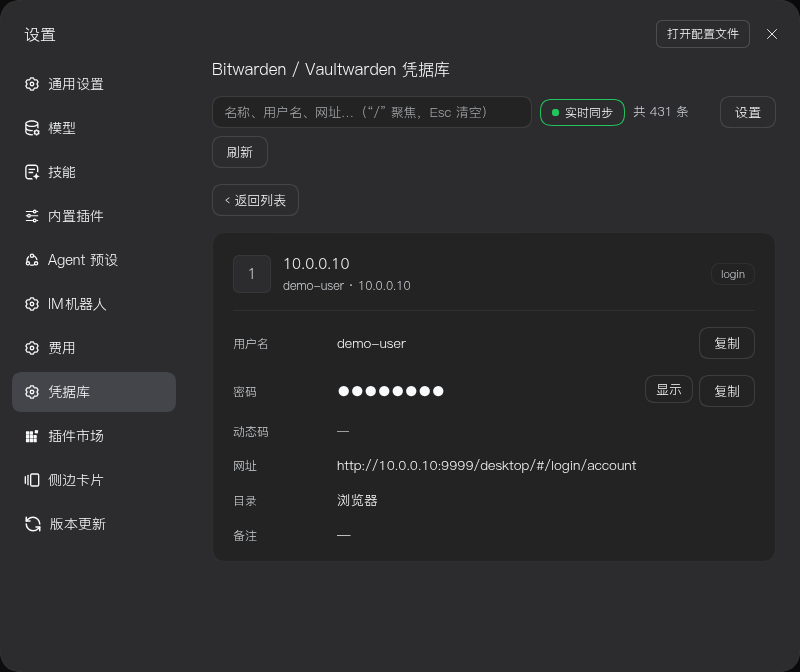
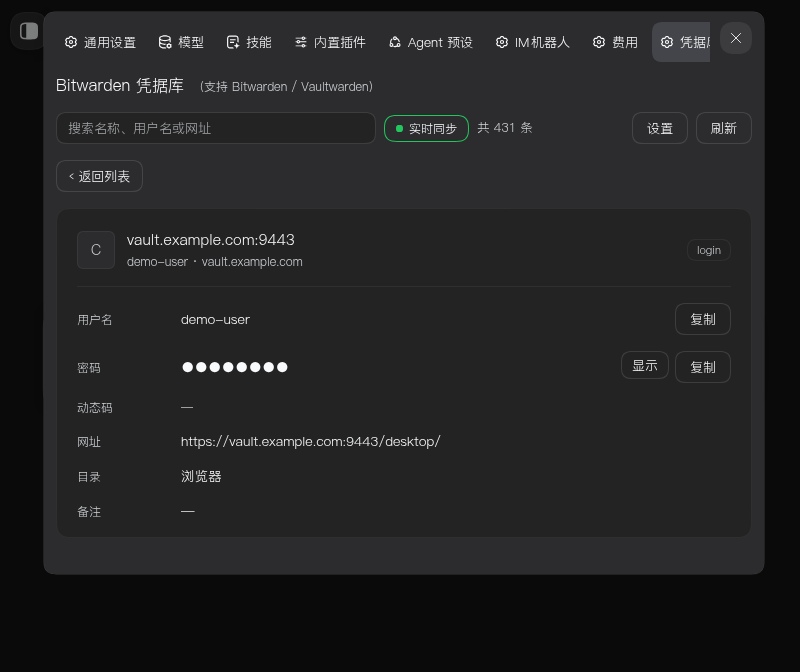
feat(ui): 标题精简、搜索提示瘦身、手机端重排；修列表圆枕同字母问题
按反馈调整面板文案与手机端排版（无破坏性变更）：

- 标题改为「Bitwarden 凭据库」，Vaultwarden 支持改为旁边小字「（支持 Bitwarden / Vaultwarden）」，
  不再用整个标题承载两个产品名；英文词典同步。
- 搜索框占位符只说明搜什么（「搜索名称、用户名或网址」）。原先把 / 聚焦、Esc 清空、↑↓ 移动
  一起塞进占位符，手机上文字还没显示完就被截断；快捷键移到输入框 tooltip，位置更省、仍可达。
- 窄屏（≤560px）：搜索框独占一行；字段行标签另起一行、值占满宽度（长 URL 与备注不再挤成一条）；
  详情内边距与行高收紧。用作用域内媒体查询 + 元素标记实现，不动颜色与大尺寸。
- 列表圆枕原先对 IP 命名条目全部显示同一个「1」。改为按「名称 → 用户名 → URI 主机」取第一个
  字母，纯数字名也能区分开。
- 文档（CHANGELOG / docs/ui-design.md）同步；仓库截图按新 UI 重做并完成 DOM 脱敏。
- 测试 221 项全绿；新增标题/提示/窄屏钩子/圆枕 4 组断言，条目数断言改为派生值。

diff --git a/lib/client.js b/lib/client.js
@@ -58,10 +58,16 @@ window.__ModuleLoader__.load({
 
     // ── dictionaries (zh first; en mirrors the same keys) ─────────────────────
     const DICT_ZH = {
-      panelTitle: 'Bitwarden / Vaultwarden 凭据库',
+      panelTitle: 'Bitwarden 凭据库',
+      // Sits next to the title in small type: the panel is built on the
+      // Bitwarden protocol, and a Vaultwarden server speaks the same one.
+      panelTitleNote: '（支持 Bitwarden / Vaultwarden）',
       panelNav: '凭据库',
       search: '搜索条目',
-      searchPlaceholder: '名称、用户名、网址…（“/” 聚焦，Esc 清空）',
+      // Short on purpose: the long version was truncated mid-word on a phone.
+      searchPlaceholder: '搜索名称、用户名或网址',
+      // The keyboard shortcuts moved out of the placeholder into the tooltip.
+      searchHint: '按 / 聚焦搜索框，Esc 清空，↑↓ 移动选中',
       refresh: '刷新',
       listEmpty: '没有匹配的条目',
       listHint: '换个关键词，或确认条目存在于该账户',
@@ -160,10 +166,12 @@ window.__ModuleLoader__.load({
       timeDays: '{n} 天前',
     }
     const DICT_EN = {
-      panelTitle: 'Bitwarden / Vaultwarden vault',
-      panelNav: 'Vault',
+      panelTitle: 'Bitwarden credentials',
+      panelTitleNote: '(Vaultwarden supported)',
+      panelNav: 'Credentials',
       search: 'Search entries',
-      searchPlaceholder: 'Name, username, URL… (“/” focuses, Esc clears)',
+      searchPlaceholder: 'Name, username or URL',
+      searchHint: 'Press / to focus, Esc to clear, ↑↓ to move the selection',
       refresh: 'Refresh',
       listEmpty: 'No matching entries',
       listHint: 'Try another keyword, or confirm the entry exists in this account',
@@ -316,6 +324,12 @@ window.__ModuleLoader__.load({
         marginRight: -4,
       },
       toolbar: { display: 'flex', gap: 8, alignItems: 'center', flexWrap: 'wrap' },
+      /** Title + the small compatibility note; wraps together on a phone. */
+      titleRow: { display: 'flex', alignItems: 'baseline', gap: 8, flexWrap: 'wrap' },
+      titleText: { fontSize: 16, fontWeight: 600, letterSpacing: 0.1 },
+      titleNote: { fontSize: 12, color: TOKEN.text2 },
+      /** Keeps 设置/刷新 together and right-aligned when the row wraps. */
+      toolbarActions: { display: 'flex', gap: 8, marginLeft: 'auto', flexShrink: 0 },
       // Single column on purpose: the list and the detail are separate levels,
       // never side by side. A two-column grid floors its `1fr` track at
       // min-content, so one long URL used to push the detail card out of the
@@ -466,18 +480,52 @@ window.__ModuleLoader__.load({
 .vw-root [data-row] + [data-row] { border-top: 1px solid ${TOKEN.border} }
 .vw-root ::placeholder { color: ${TOKEN.text2}; opacity: .75 }
 .vw-root { scrollbar-width: thin }
+/* ── narrow screens (phones) ──────────────────────────────────────────
+   Inline styles cannot be reached by a media query, so the declarations
+   below override them with !important. They only re-flow what is already
+   there: no colour, no size, nothing that would differ between themes. */
+@media (max-width: 560px) {
+  /* The search box owns its row instead of competing with the controls. */
+  .vw-root [data-vw-search] { max-width: none !important; flex: 1 1 100% }
+  /* Field rows stack: a fixed 92px label column left too little room for
+     long URLs and notes on a phone. The label gets its own line and the
+     value keeps the full width, with its copy button beside it. */
+  .vw-root [data-vw-field] { grid-template-columns: minmax(0, 1fr) auto !important; gap: 4px 8px !important }
+  .vw-root [data-vw-field] > *:first-child { grid-column: 1 / -1 }
+  /* Reclaim vertical space: the host dialog is short on a phone. */
+  .vw-root { gap: 12px !important }
+  .vw-root [data-vw-detail] { padding: 16px !important }
+  .vw-root [data-row] { padding: 10px 12px !important; gap: 10px !important }
+}
 `
       document.head.appendChild(style)
     }
 
-    /** First glyph of an entry name, for the list's monogram tile. */
+    /**
+     * First glyph of an entry name, for the list's monogram tile.
+     *
+     * A leading digit identifies nothing: entries named after an IP address or
+     * a port ("10.0.0.10", "…:9443") tiled the whole list with the same
+     * "1". So prefer the first letter or CJK character, fall back to the
+     * username for the same reason, and only then use a bare digit.
+     */
     const monogram = (item) => {
-      const source = String(item?.name ?? '').trim()
-      if (!source) return '?'
-      // Prefer a leading letter or digit; fall back to the first character so
-      // CJK names still show something meaningful.
-      const match = source.match(/[A-Za-z0-9\u4e00-\u9fff]/)
-      return (match?.[0] ?? source[0]).toUpperCase()
+      const letterIn = (text) => String(text ?? '').trim().match(/[A-Za-z\u4e00-\u9fff]/)?.[0] ?? ''
+      // A digit carries no identity here, so every source is checked for a
+      // letter before any digit is considered — including the URI host, which
+      // is the only name-like field left when both name and username are
+      // numeric (an entry named "10.0.0.10" with username "demo-user" should
+      // read as D, not as a fifth identical "1").
+      const candidates = [item?.name, item?.username, ...(item?.uris ?? []).map((uri) => hostOf(uri))]
+      for (const candidate of candidates) {
+        const letter = letterIn(candidate)
+        if (letter) return letter.toUpperCase()
+      }
+      for (const candidate of candidates) {
+        const digit = String(candidate ?? '').trim().match(/[0-9]/)?.[0]
+        if (digit) return digit
+      }
+      return '?'
     }
 
     /** Show just the host of a URI: full URLs make list rows unreadable. */
@@ -1201,10 +1249,14 @@ window.__ModuleLoader__.load({
         { style: S.toolbar },
         h('input', {
           ref: searchRef,
+          'data-vw-search': '',
           style: { ...S.input, maxWidth: 320, width: '100%' },
           type: 'search',
           value: query,
           placeholder: t('searchPlaceholder'),
+          // The shortcuts used to sit in the placeholder and were the first
+          // thing truncated on a phone; a tooltip keeps them reachable.
+          title: t('searchHint'),
           'aria-label': t('search'),
           onChange: (event) => setQuery(event.target.value),
           onKeyDown: (event) => {
@@ -1221,8 +1273,12 @@ window.__ModuleLoader__.load({
         }),
         state.status === 'ready' ? h(SyncChip, { report: state.report, t, invoke, onSynced: () => readVault(query) }) : null,
         h('span', { style: S.note }, state.status === 'ready' ? t('itemsCount').replace('{n}', String(state.list.vaultItems ?? items.length)) : ''),
-        h('button', { type: 'button', style: { ...S.button, marginLeft: 'auto' }, onClick: () => setShowSetup(true) }, t('openSetup')),
-        h('button', { type: 'button', style: S.button, onClick: () => load(query) }, t('refresh')),
+        h(
+          'div',
+          { style: S.toolbarActions },
+          h('button', { type: 'button', style: S.button, onClick: () => setShowSetup(true) }, t('openSetup')),
+          h('button', { type: 'button', style: S.button, onClick: () => load(query) }, t('refresh')),
+        ),
       )
 
       const list = h(
@@ -1294,14 +1350,14 @@ window.__ModuleLoader__.load({
         const row = (label, content, copyValue) =>
           h(
             'div',
-            { style: S.fieldRow, key: label },
+            { 'data-vw-field': '', style: S.fieldRow, key: label },
             h('span', { style: S.fieldLabel }, label),
             h('span', { style: S.fieldValue }, content ?? '—'),
             copyValue ? h(CopyButton, { value: copyValue, t }) : null,
           )
         return h(
           'div',
-          { style: S.detail },
+          { 'data-vw-detail': '', style: S.detail },
           h(
             'div',
             { style: { display: 'flex', alignItems: 'center', gap: 12 } },
@@ -1321,7 +1377,7 @@ window.__ModuleLoader__.load({
           // repeat and pushed the controls out of the card.
           h(
             'div',
-            { style: S.fieldRow, key: 'password' },
+            { 'data-vw-field': '', style: S.fieldRow, key: 'password' },
             h('span', { style: S.fieldLabel }, t('password')),
             h('span', { style: revealed ? S.mono : S.fieldValue }, revealed ? value.password ?? '' : '●●●●●●●●'),
             h(
@@ -1331,7 +1387,7 @@ window.__ModuleLoader__.load({
               value.password ? h(CopyButton, { value: value.password, t }) : null,
             ),
           ),
-          h('div', { style: S.fieldRow }, h('span', { style: S.fieldLabel }, t('totp')), value.totpSecret ? h(TotpValue, { id: value.id, invoke, t }) : h('span', { style: S.listMeta }, '—'), null),
+          h('div', { 'data-vw-field': '', style: S.fieldRow }, h('span', { style: S.fieldLabel }, t('totp')), value.totpSecret ? h(TotpValue, { id: value.id, invoke, t }) : h('span', { style: S.listMeta }, '—'), null),
           row(t('uris'), (value.uris ?? []).join(', ')),
           row(t('folder'), [value.folder, (value.collections ?? []).join(', ')].filter(Boolean).join(' · ')),
           row(t('notes'), value.notes ? h('span', { style: { whiteSpace: 'pre-wrap' } }, value.notes) : null, value.notes),
@@ -1343,7 +1399,7 @@ window.__ModuleLoader__.load({
                 ...(value.fields ?? []).map((field, index) =>
                   h(
                     'div',
-                    { style: S.fieldRow, key: `field-${index}` },
+                    { 'data-vw-field': '', style: S.fieldRow, key: `field-${index}` },
                     h('span', { style: S.fieldLabel }, field.name),
                     h('span', { style: S.fieldValue }, field.value),
                     h(CopyButton, { value: field.value, t }),
@@ -1513,7 +1569,14 @@ window.__ModuleLoader__.load({
       return h(
         'div',
         { className: 'vw-root', style: S.panel },
-        h('span', { style: { fontSize: 16, fontWeight: 600, letterSpacing: 0.1 } }, t('panelTitle')),
+        h(
+          'div',
+          { style: S.titleRow },
+          h('span', { style: S.titleText }, t('panelTitle')),
+          // The compatibility note is secondary information, so it rides
+          // along in small type rather than lengthening the title itself.
+          h('span', { style: S.titleNote }, t('panelTitleNote')),
+        ),
         showToolbar ? toolbar : null,
         h('div', { style: S.scrollArea, 'data-scroll-area': '' }, body()),
       )

diff --git a/CHANGELOG.md b/CHANGELOG.md
@@ -4,6 +4,37 @@ All notable changes to `dsh-vaultwarden` are documented here.
 The format follows [Keep a Changelog](https://keepachangelog.com/en/1.1.0/),
 and this project adheres to [Semantic Versioning](https://semver.org/spec/v2.0.0.html).
 
+## [0.2.3] — 2026-09-29
+
+Panel copy and phone layout. No breaking changes.
+
+### Changed
+
+- **The title is just "Bitwarden 凭据库".** The old
+  "Bitwarden / Vaultwarden 凭据库" spent the whole heading on two product
+  names. Vaultwarden support now rides alongside in small type
+  (`（支持 Bitwarden / Vaultwarden）`), which says the same thing without
+  shouting it. The English dictionary matches.
+- **The search box only says what it searches.** The placeholder also carried
+  the keyboard shortcuts, and on a phone that text was truncated before it
+  finished. It is now `搜索名称、用户名或网址`, with `/`, Esc and ↑↓ moved to
+  the input tooltip, where they stay reachable without competing for space.
+
+### Fixed
+
+- **Phone layout.** Below 560px the search box takes its own row, field rows
+  stack their label above the value so long URLs and notes keep the full
+  width, and the detail card tightens its padding. Driven by a scoped media
+  query over markers on the elements that need re-flowing.
+- **Every list tile showed the same glyph.** Entries named after a host
+  (`10.0.0.10`, `…:9443`) showed `1` in every row. The monogram now takes
+  the first letter found across name, username and URI host, so those rows
+  read as distinct entries at a glance.
+
+### Tests
+
+- 221 offline tests across seven suites (`bash scripts/build.sh`).
+
 ## [0.2.2] — 2026-09-29
 
 A fresh install could not be set up from the panel. No breaking changes.
